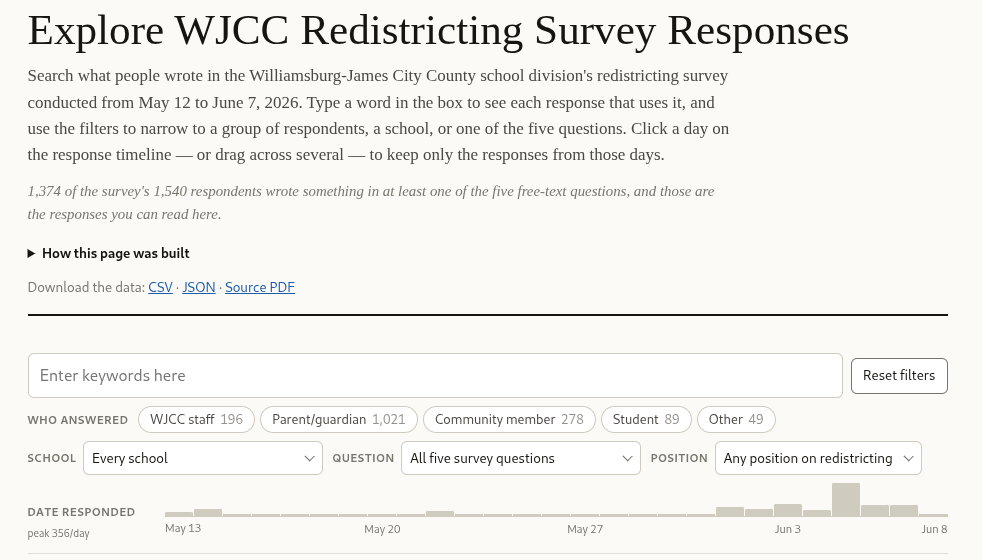
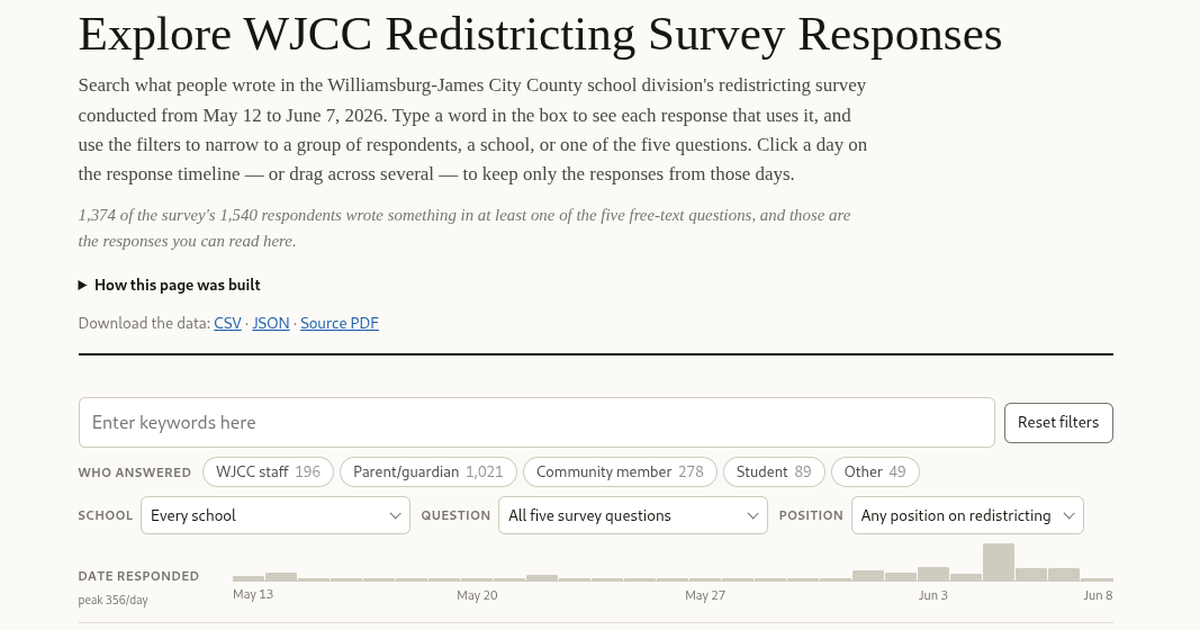
Size the link-preview image to 1.91:1 so X stops cropping it
The card worked but arrived cropped: X and LinkedIn render link images at
1.91:1 and center-crop anything else, so the raw 982x560 capture (1.75:1)
lost the top of the heading and the timeline's date labels. The
og:image:width/height tags describe the file, they don't prevent the crop
-- only matching pixels do.

Padded the capture to 1067x560 with the page background, which costs no
resampling, then one Lanczos step to 1200x630, the size both platforms
document. A Chrome retake was the other option and turned out worse: the
capture comes back downscaled and JPEG-compressed.

Claude-Session: https://claude.ai/code/session_01K19Fx4WY7HQftPffmmkBCa

diff --git a/docs/index.html b/docs/index.html
@@ -19,8 +19,8 @@
 <link rel="canonical" href="https://redistricting.jwcaterine.com/">
 <meta property="og:url" content="https://redistricting.jwcaterine.com/">
 <meta property="og:image" content="https://redistricting.jwcaterine.com/preview.png">
-<meta property="og:image:width" content="982">
-<meta property="og:image:height" content="560">
+<meta property="og:image:width" content="1200">
+<meta property="og:image:height" content="630">
 <meta property="og:image:alt" content="The search page, showing the keyword box, the respondent, school and question filters, and the timeline of response dates.">
 <meta name="twitter:image" content="https://redistricting.jwcaterine.com/preview.png">
 </head>

diff --git a/build_pages.py b/build_pages.py
@@ -33,11 +33,19 @@ DESC = ("Search all 1,374 written responses to the Williamsburg-James City Count
 BASE_URL = "https://redistricting.jwcaterine.com/"
 BACK_LINK = "https://jwcaterine.com/"
 # Link-preview card image: a screenshot of the page itself, copied into docs/ below.
-# 982x560 is the raw capture, left unscaled -- it clears every scraper minimum, and
-# padding it to a nominal 1200x630 would only cost sharpness. Keep the dimensions in
-# sync with the file; scrapers that trust the tags render a broken card otherwise.
+#
+# 1200x630 exactly, because the ratio is what matters, not the pixel count. X and
+# LinkedIn render link images at 1.91:1 and CENTER-CROP anything else -- the first
+# version here was the raw 982x560 capture (1.75:1) and lost the top of the heading
+# and the timeline's date labels. og:image:width/height only describe the file; they
+# do not stop the crop, so the pixels themselves have to match.
+#
+# Built from the raw capture by padding the width to 1067x560 with the page
+# background (no resampling) and then one Lanczos step to 1200x630. Keep these
+# constants in sync with the file, and check `identify` output rather than just
+# grepping the tags -- a wrong ratio is invisible in the markup.
 PREVIEW = "preview.png"
-PREVIEW_W, PREVIEW_H = 982, 560
+PREVIEW_W, PREVIEW_H = 1200, 630
 PREVIEW_ALT = ("The search page, showing the keyword box, the respondent, school and "
                "question filters, and the timeline of response dates.")
 SUBSTACK_LINK = "https://jwcaterine.substack.com/"
